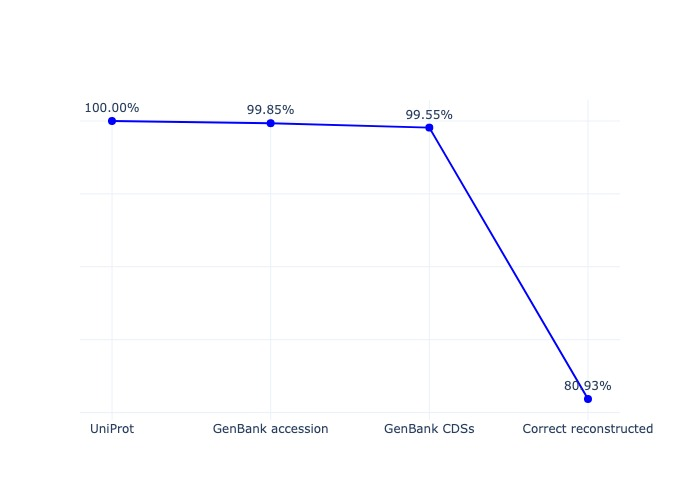
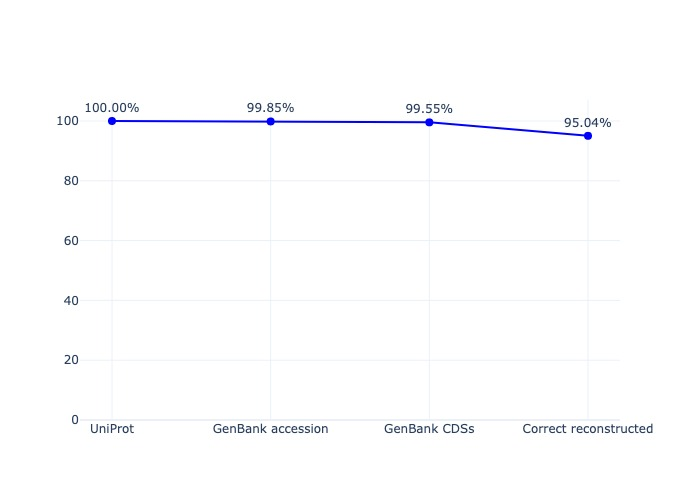
Add stuff for the first synteny plot and new plot for presentation wednesday

diff --git a/src/tinkering/graphs/test_pyGenomeViz.py b/src/tinkering/graphs/test_pyGenomeViz.py
@@ -1,16 +1,37 @@
 from pygenomeviz import GenomeViz
 from pygenomeviz.parser import Gff
 
-gff = Gff("data/sample.gff")
+gff = Gff("data/sample_data/UCHL1_human.gff")
 
 gv = GenomeViz()
 
-# segment adapted to range of UCHL1 gene
-track = gv.add_feature_track(name=gff.name, segments=(41256928, 41268455))
-
-# plot cds features
+track = gv.add_feature_track("UCHL1 on human chromosome 4", (41256928 - 3000, 41268455 + 1000))
 cds_features = gff.extract_features(feature_type="CDS")
 track.add_features(cds_features)
 track.add_sublabel()
+
+gff = Gff("data/sample_data/UCHL1_mouse.gff")
+
+track = gv.add_feature_track("UCHL1 on mouse chromosome 5", (66833464 - 3000, 66844577 + 1000))
+cds_features = gff.extract_features(feature_type="CDS")
+track.add_features(cds_features)
+track.add_sublabel()
+
+gff = Gff("data/sample_data/BAP1_human.gff")
+
+track = gv.add_feature_track("BAP1 on human chromosome 3", (52401008 - 3000, 52410008 + 1000))
+cds_features = gff.extract_features(feature_type="CDS")
+track.add_features(cds_features)
+track.add_sublabel()
+
+gff = Gff("data/sample_data/BAP1_mouse.gff")
+
+track = gv.add_feature_track("BAP1 on mouse chromosome 14", (30973446 - 3000, 30981886 + 1000))
+cds_features = gff.extract_features(feature_type="CDS")
+track.add_features(cds_features)
+track.add_sublabel()
+
+gv.add_link(("UCHL1 on human chromosome 4", 41256977, 41268073), ("UCHL1 on mouse chromosome 5", 66833633, 66844271))
+gv.add_link(("BAP1 on human chromosome 3", 52409878, 52402288), ("BAP1 on mouse chromosome 14", 30973575, 30980796))
 
 gv.savefig("gff_sample_features.png")

diff --git a/src/tinkering/graphs/graph.py b/src/tinkering/graphs/graph.py
@@ -2,7 +2,8 @@ import plotly.graph_objects as go
 
 # Define the x values and original y values
 x_values = ["UniProt", "GenBank accession", "GenBank CDSs", "Correct reconstructed"]
-original_y_values = [15224, 15201, 15155, 12321]
+# original_y_values = [15224, 15201, 15155, 12321]
+original_y_values = [15224, 15201, 15155, 14469]
 
 # Convert the y values to percentages
 y_values = [value / original_y_values[0] * 100 for value in original_y_values]
@@ -21,11 +22,13 @@ fig.add_trace(go.Scatter(
     marker=dict(size=8)
 ))
 
+fig.update_yaxes(rangemode="tozero")
+
 # Update the layout to remove y-axis values, title, and x-axis description
 fig.update_layout(
     title='',
     xaxis_title='',
-    yaxis=dict(showticklabels=False),
+    # yaxis=dict(showticklabels=False),
     xaxis=dict(tickmode='array', tickvals=list(range(len(x_values))), ticktext=x_values),
     template='plotly_white'
 )
